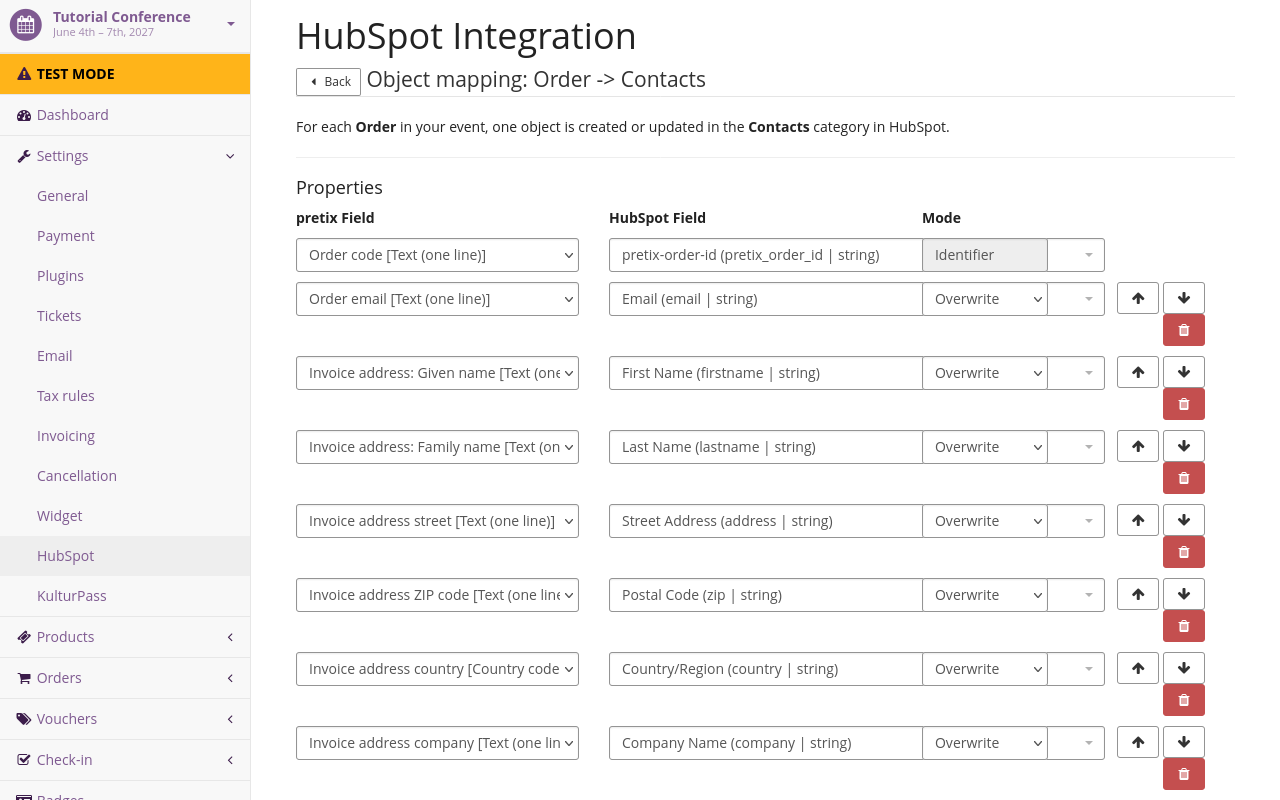
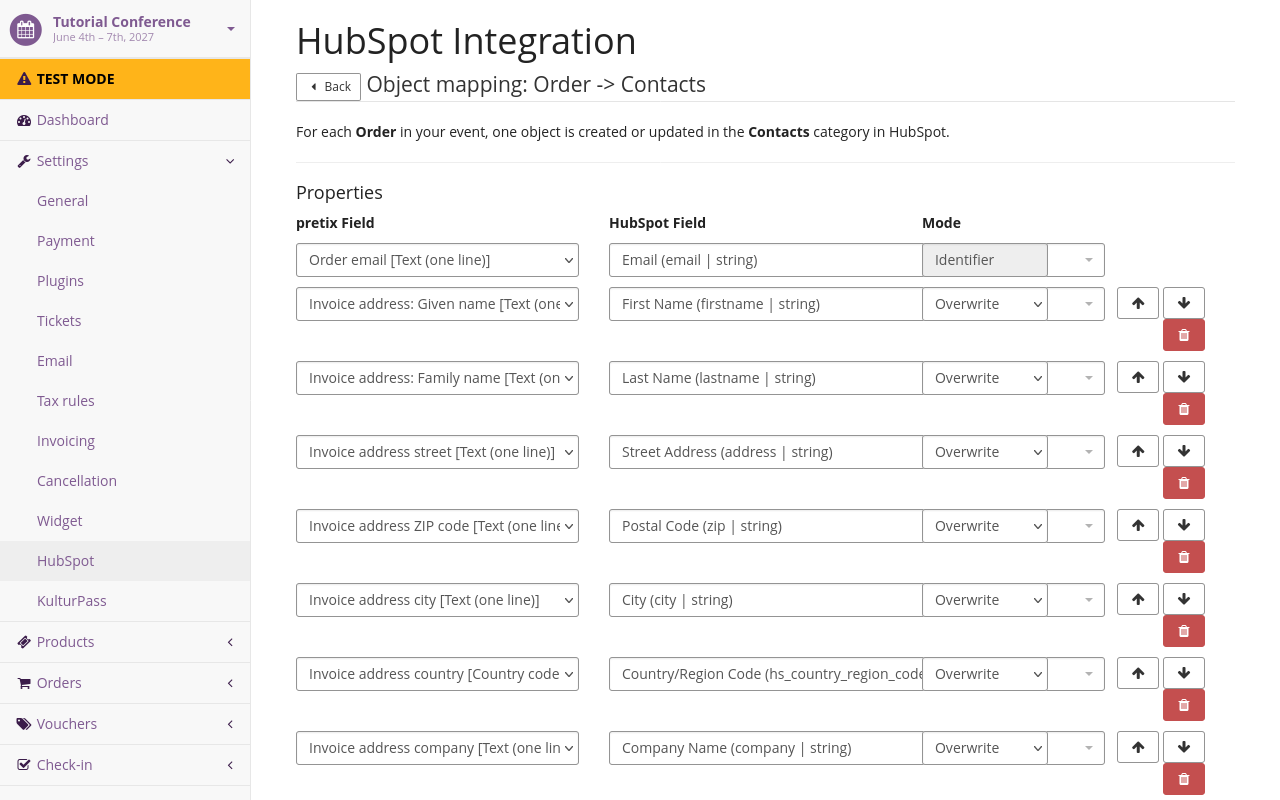
Fix instructions according to information from the developer

diff --git a/docs/guides/integrations/hubspot.md b/docs/guides/integrations/hubspot.md
@@ -9,13 +9,8 @@ You need to have access to a HubSpot account.
 
 ## General usage
 
-This section explains: 
-
- - how to enable the HubSpot plugin
- - how to set up the connection between your pretix account and your HubSpot account
- - how to create a custom property in HubSpot for mapping exports
-
-These three steps are necessary before you can export any data from pretix to HubSpot. 
+This section explains how to enable the HubSpot plugin and how to set up the connection between your pretix account and your HubSpot account
+These steps are necessary before you can export any data from pretix to HubSpot. 
 
 ### Enabling the plugin
 
@@ -54,30 +49,6 @@ Instead of the "Request access" button, this page now states that the event is c
 
 Click the :btn:Save: button. 
 
-### Creating a custom property for mapping 
-
-Before you can export any information from pretix to HubSpot, you need to create a custom property. 
-The integration plugin will use this property during export. 
-
-Refer to the HubSpot documentation on how to [Create a custom property](https://knowledge.hubspot.com/properties/create-and-edit-properties#create-a-custom-property).
-Add the following property details: 
-
- - Property label: `pretix-order-id`
- - Object type: `Contact` 
- - Group: Order `information` 
- - Field type: `Single-line text` 
-
-The "Object type" detail depends on your intended use case. 
-If you want to export data to the contacts database in HubSpot, select `Contact`. 
-If you want to export to the deals database, select `Deal`. 
-
-If you want to export to both, create two objects: one with the `Contact` type, the other with the `Deal` type. 
-It is possible to give both objects the same name. 
-
-![HubSpot page titled 'Add property details', displaying the properties described above plus an optional description field: 'For importing contact information from pretix'. The 'Field type' is on a separate page. ](../../assets/screens/hubspot/property-details.png "HubSpot Add property details")
-
-Confirm by clicking the :btn:Create: button. 
-
 ## Applications
 
 This section explains some useful applications of the HubSpot integration plugin: 
@@ -89,50 +60,81 @@ Before you can do any of these things, you have to set up the plugin as describe
 
 ### Adding customers and attendees to your HubSpot contacts database
 
-This section explains how to add customers or attendees in pretix to your contacts database in HubSpot. 
+This section explains how to add customers in pretix to your contacts database in HubSpot. 
 Open the pretix backend and navigate to :navpath:Your Event → :fa3-wrench: Settings → HubSpot:. 
-Under "Object mappings", edit the first entry or, if you are already using it for a different purpose, click the :btn-icon:fa3-plus: Add mapping: button. 
+Under "Object mappings", change the first entry or, if you are already using it for a different purpose, click the :btn-icon:fa3-plus: Add mapping: button. 
 
-Under "pretix object type", choose "Order". 
+Under "pretix object type", choose "Order position". 
 Under "HubSpot order type", choose "Contacts". 
 Click the :btn:Save: button. 
 
 In order to change the details of the data that pretix maps to the entries in HubSpot, click the :btn-icon:fa3-edit: Edit mapping: button. 
 
 The first line under "Properties" specifies the identifier. 
-Under "pretix Field", select `Order code [Text (one line)]`. 
-Under "HubSpot Field", select `pretix-order-id (pretix_order_id | string)`. 
-The "Mode" option is fixed to `Identifier`. 
+Under "pretix Field", select `Order email [Text (one line)]`. 
+Under "HubSpot Field", select `Email (email | string)`. 
+The "Mode" option is fixed to `Identifier`, meaning that HubSpot will use this line as the unique identifier for an entry in the contacts database. 
 
 Click the :btn-icon:fa3-plus: Add property: button to add a new property to export to HubSpot. 
-Map the pretix field `Order email [Text (one line)]` to the HubSpot field `Email (email | string). 
-This is useful because HubSpot internally uses the email address as the unique identifier for an entry in the list of contacts. 
+Map invoice address fields from pretix to corresponding fields in HubSpot. 
 
 If you set "Mode" to `Overwrite`, then the plugin will overwrite any fields in your HubSpot database. 
-If you set it to `Fill if new`, then it will only fill the field on a new entry. 
-If you set it to `Fill if empty`, then the plugin will only fill the field if the field is empty. 
-If you set it to `Add to list`, then the plugin will create a list in the HubSpot field. 
-The HubSpot field will contain a list of its previous content and the content of the pretix field appended to the end of that list. 
 
-Add more properties and map the information you ask of your customers to the closest matching field in HubSpot. 
+If you set it to `Fill if new`, then it will only fill the field on an entirely new entry. 
+The plugin will not make any changes if an entry with the same unique identifier already exists. 
+This avoids overwriting existing entries and filling them with mismatching data. 
+
+If you set "Mode" to `Fill if empty`, then the plugin will only fill empty fields. 
+This can complete an entry with missing information, but it may sometimes complete it with mismatching information. 
+
+If you set it to `Add to list`, then the plugin will add the content from pretix as an item in a list-type HubSpot field. 
+This is suitable for HubSpot variables that allow multiple entries, such as "Multiple checkboxes", "Radio select", and "Dropdown select". 
+If you use this on a text variable in HubSpot, the plugin will append the text from pretix to the end, separated by semicolon. 
+If you use it on a number variable, then the export will work without issues on an empty field, but will cause an error if the field is already filled. 
+
 For example, your mapping could look like this: 
 
-![Page titled 'HubSpot Integration' with an object mapping from Order to Contacts. The configuration maps order code, email, name, address, and company name to HubSpot.](../../assets/screens/hubspot/object-mapping-example.png "Object Mapping Example")
+![Page titled 'HubSpot Integration' with an object mapping from Order to Contacts. The configuration maps order email, as well as invoice name, address, and company name to HubSpot.](../../assets/screens/hubspot/object-mapping-example.png "Object Mapping Example")
 
-This uses the order code of your orders in pretix to the property `pretix-order-id` in HubSpot. 
-It also maps email, given name, family name, street, post code, country, and company name onto the most closely matching properties in HubSpot. 
+This maps the email address used to place an order in pretix to the email property in HubSpot. 
+It also maps  given name, family name, street, post code, city, country code, and company name onto the most closely matching properties in HubSpot. 
 According to the configuration in the screenshot, the plugin overwrites all those properties. 
 
-If you want to fill your HubSpot contacts database with attendee data in addition to customer data, navigate to the HubSpot integration page. 
+Once you are satisfied with your mapping, click the :btn:Save: button. 
+
+### Adding attendees to your HubSpot contacts database
+
+If you want to fill your HubSpot contacts database with attendee data in addition to customer data, navigate to :navpath:Your Event → :fa3-wrench: Settings → HubSpot:. 
 Add an object mapping with the "pretix object type" set to `Order position` and the "HubSpot object type" set to `Contacts`. 
 
-Edit the mapping and set it up analogously to the `Order` mapping, replacing invoice data with attendee data. 
+Edit the mapping and set it up analogously to the `Order` mapping, replacing invoice data with attendee data, but still mapping to the same HubSpot fields. 
 
 ### Adding payments to your HubSpot deals database
 
 This section explains how to add payments from pretix to your deals database in HubSpot. 
+
+Before you can export any information from pretix to the deals database in HubSpot, you need to create a custom property. 
+The integration plugin will use this property during export. 
+
+Refer to the HubSpot documentation on how to [Create a custom property](https://knowledge.hubspot.com/properties/create-and-edit-properties#create-a-custom-property).
+Under "Details", enter the following: 
+
+ - Property label: `pretix-order-id`
+ - Object type: `Deal` 
+ - Group: `Deal information` 
+
+![HubSpot page titled 'Add property details', displaying the properties described above plus an optional description field: 'For importing deal information from pretix'. ](../../assets/screens/hubspot/property-details.png "HubSpot Add property details")
+
+Under "Field type", select `Single-line text`. 
+Under rules, check the box next to "Require unique values for this property". 
+
+![HubSpot page titled 'Select property rules', displaying, among other things, the subheading *Simple validation rules' and the activated checkbox 'Require unique values for this property (0 of 10) . ](../../assets/screens/hubspot/property-rules.png "HubSpot Select property rules")
+
+Some of these settings cannot be changed after the property has been created. 
+Ensure that you have configured the property as described here and then click the :btn:Create: button. 
+
 Open the pretix backend and navigate to :navpath:Your Event → :fa3-wrench: Settings → HubSpot:. 
-Under "Object mappings", edit the first entry or, if you are already using it for a different purpose, click the :btn-icon:fa3-plus: Add mapping: button. 
+Under "Object mappings", change the first entry or, if you are already using it for a different purpose, click the :btn-icon:fa3-plus: Add mapping: button. 
 
 Under "pretix object type", choose "Order". 
 Under "HubSpot order type", choose "Deals". 
@@ -146,6 +148,8 @@ The "Mode" option is fixed to `Identifier`.
 
 Click the :btn-icon:fa3-plus: Add property: button to add a new property to export to HubSpot. 
 Add pretix fields such as the date and time or the amount and map them to corresponding fields in HubSpot. 
+
+Click the :btn:Save: button to confirm. 
 
 ### Managing data transfers 
 
